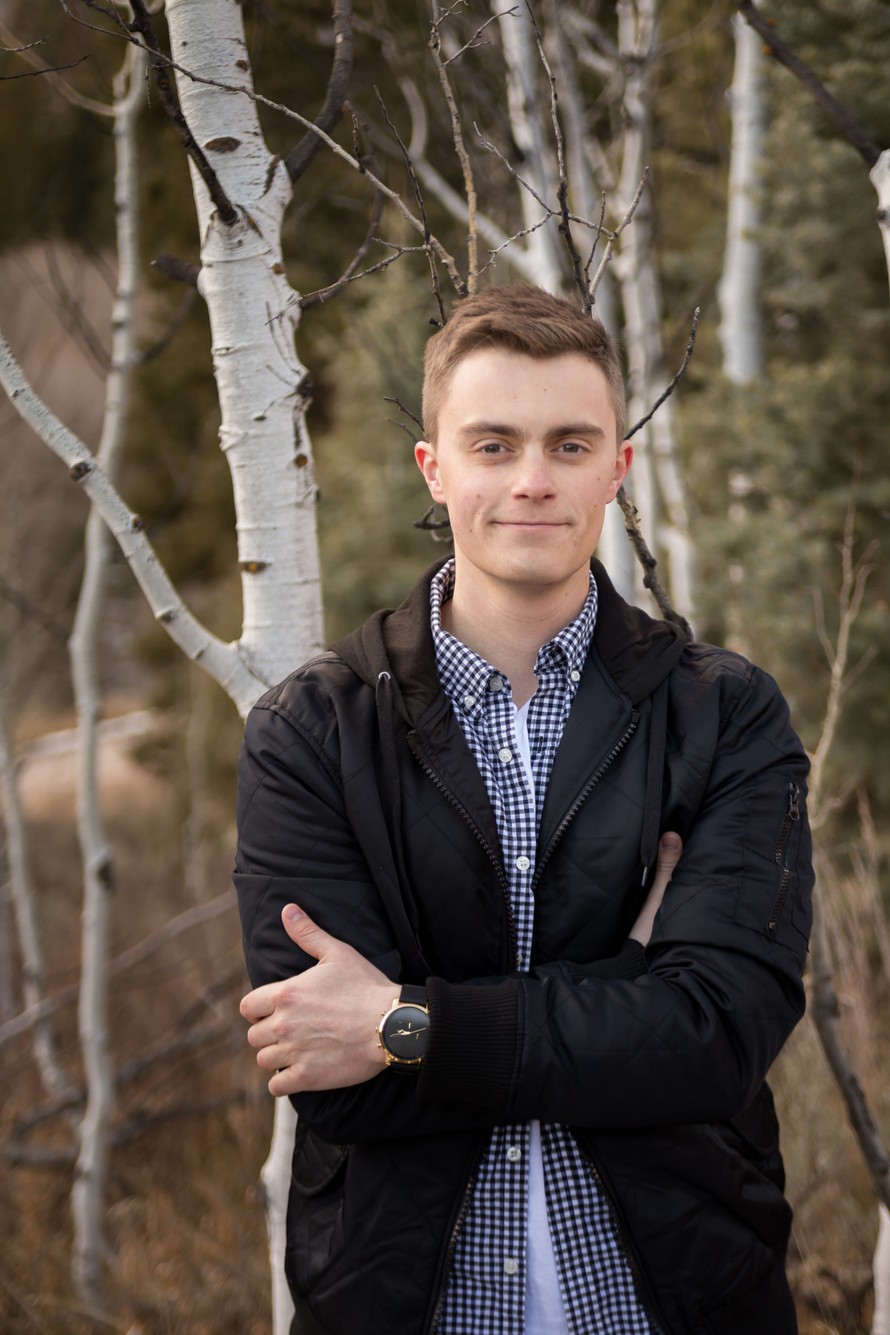
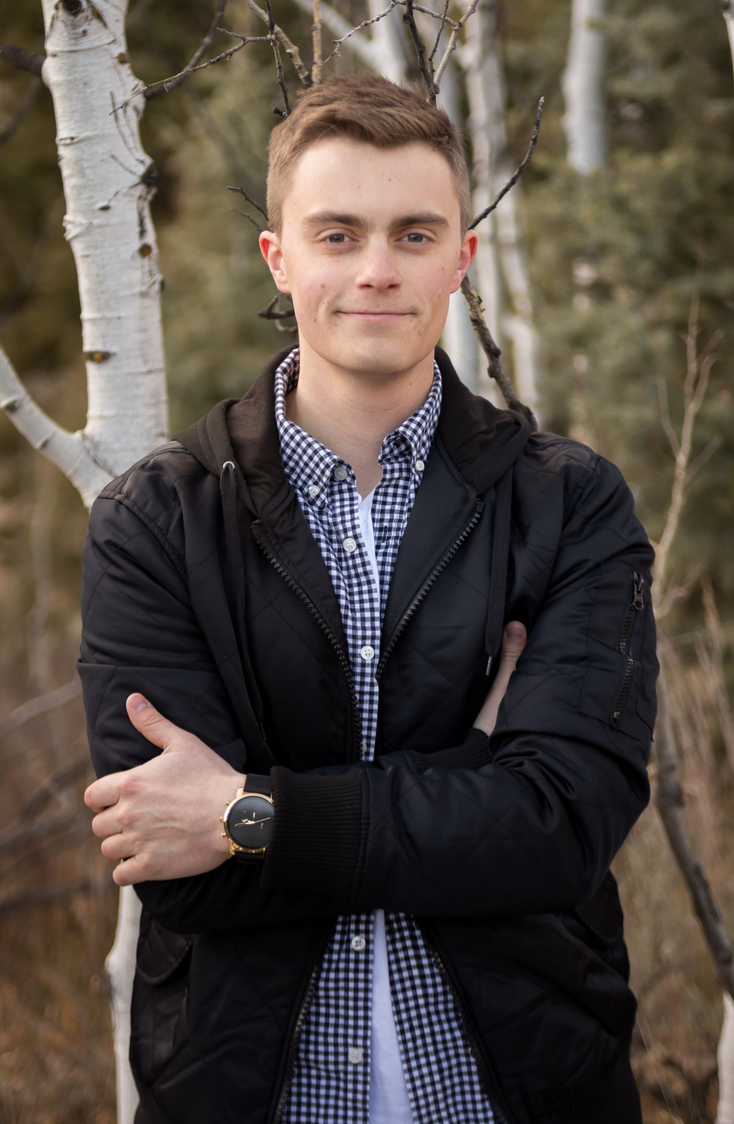
fixed resume and large photo download, also travelerr spot

diff --git a/public/misc-pages/apotd/index.html b/public/misc-pages/apotd/index.html
@@ -30,7 +30,6 @@
     var app = new Vue({
         el: '#app',
         data: {
-            message: 'Hello Vue!'
         },
         methods: {
             downloadLib: function () {
@@ -52,69 +51,6 @@
         }
     });
 
-    jQuery.ajax = (function (_ajax) {
-
-        var protocol = location.protocol,
-            hostname = location.hostname,
-            exRegex = RegExp(protocol + '//' + hostname),
-            YQL = 'http' + (/^https/.test(protocol) ? 's' : '') + '://query.yahooapis.com/v1/public/yql?callback=?',
-            query = 'select * from html where url="{URL}" and xpath="*"';
-
-        function isExternal(url) {
-            return !exRegex.test(url) && /:\/\//.test(url);
-        }
-
-        return function (o) {
-
-            var url = o.url;
-
-            if (/get/i.test(o.type) && !/json/i.test(o.dataType) && isExternal(url)) {
-
-                // Manipulate options so that JSONP-x request is made to YQL
-
-                o.url = YQL;
-                o.dataType = 'json';
-
-                o.data = {
-                    q: query.replace(
-                        '{URL}',
-                        url + (o.data ?
-                            (/\?/.test(url) ? '&' : '?') + jQuery.param(o.data)
-                            : '')
-                    ),
-                    format: 'xml'
-                };
-
-                // Since it's a JSONP request
-                // complete === success
-                if (!o.success && o.complete) {
-                    o.success = o.complete;
-                    delete o.complete;
-                }
-
-                o.success = (function (_success) {
-                    return function (data) {
-
-                        if (_success) {
-                            // Fake XHR callback.
-                            _success.call(this, {
-                                responseText: (data.results[0] || '')
-                                    // YQL screws with <script>s
-                                    // Get rid of them
-                                    .replace(/<script[^>]+?\/>|<script(.|\s)*?\/script>/gi, '')
-                            }, 'success');
-                        }
-
-                    };
-                })(o.success);
-
-            }
-
-            return _ajax.apply(this, arguments);
-
-        };
-
-    })(jQuery.ajax);
 </script>
 
 </html>

diff --git a/public/index.html b/public/index.html
@@ -169,7 +169,7 @@
       </div>
       <div class="row about-section-item">
         <div class="col s12 m6">
-          <img src="img/woods2.png" alt="" class="responsive-img circle selfie">
+          <img src="img/woods.jpg" alt="" class="responsive-img circle selfie">
         </div>
         <div class="col s12 m6">
           <br>
@@ -196,12 +196,12 @@
         <div class="col s12 m4">
           <div class="card white black-text z-depth-4">
             <div class="card-image">
-              <img src="img/port-pics/admin.jpg">
-              <h5>Sales Admin</h5>
+              <img src="img/port-pics/travelerr.jpg">
+              <h5>Travelerr</h5>
             </div>
             <div class="card-action">
-              <p>Sales tracking application.</p>
-              <a class="waves-effect waves-light btn" href="/portfolio/admin" target="blank">Preview</a>
+              <p>Single page travel agency site.</p>
+              <a class="waves-effect waves-light btn" href="portfolio/travelerr" target="_blank">Preview</a>
             </div>
           </div>
         </div>
@@ -234,14 +234,15 @@
         <div class="col s12 m4">
           <div class="card white black-text z-depth-4">
             <div class="card-image">
-              <img src="img/port-pics/travelerr.jpg">
-              <h5>Travelerr</h5>
+              <img src="img/port-pics/admin.jpg">
+              <h5>Sales Admin</h5>
             </div>
             <div class="card-action">
-              <p>Single page travel agency site.</p>
-              <a class="waves-effect waves-light btn" href="portfolio/travelerr" target="_blank">Preview</a>
+              <p>Sales tracking application.</p>
+              <a class="waves-effect waves-light btn" href="/portfolio/admin" target="blank">Preview</a>
             </div>
           </div>
+
         </div>
         <div class="col s12 m4">
           <div class="card white black-text z-depth-4">
